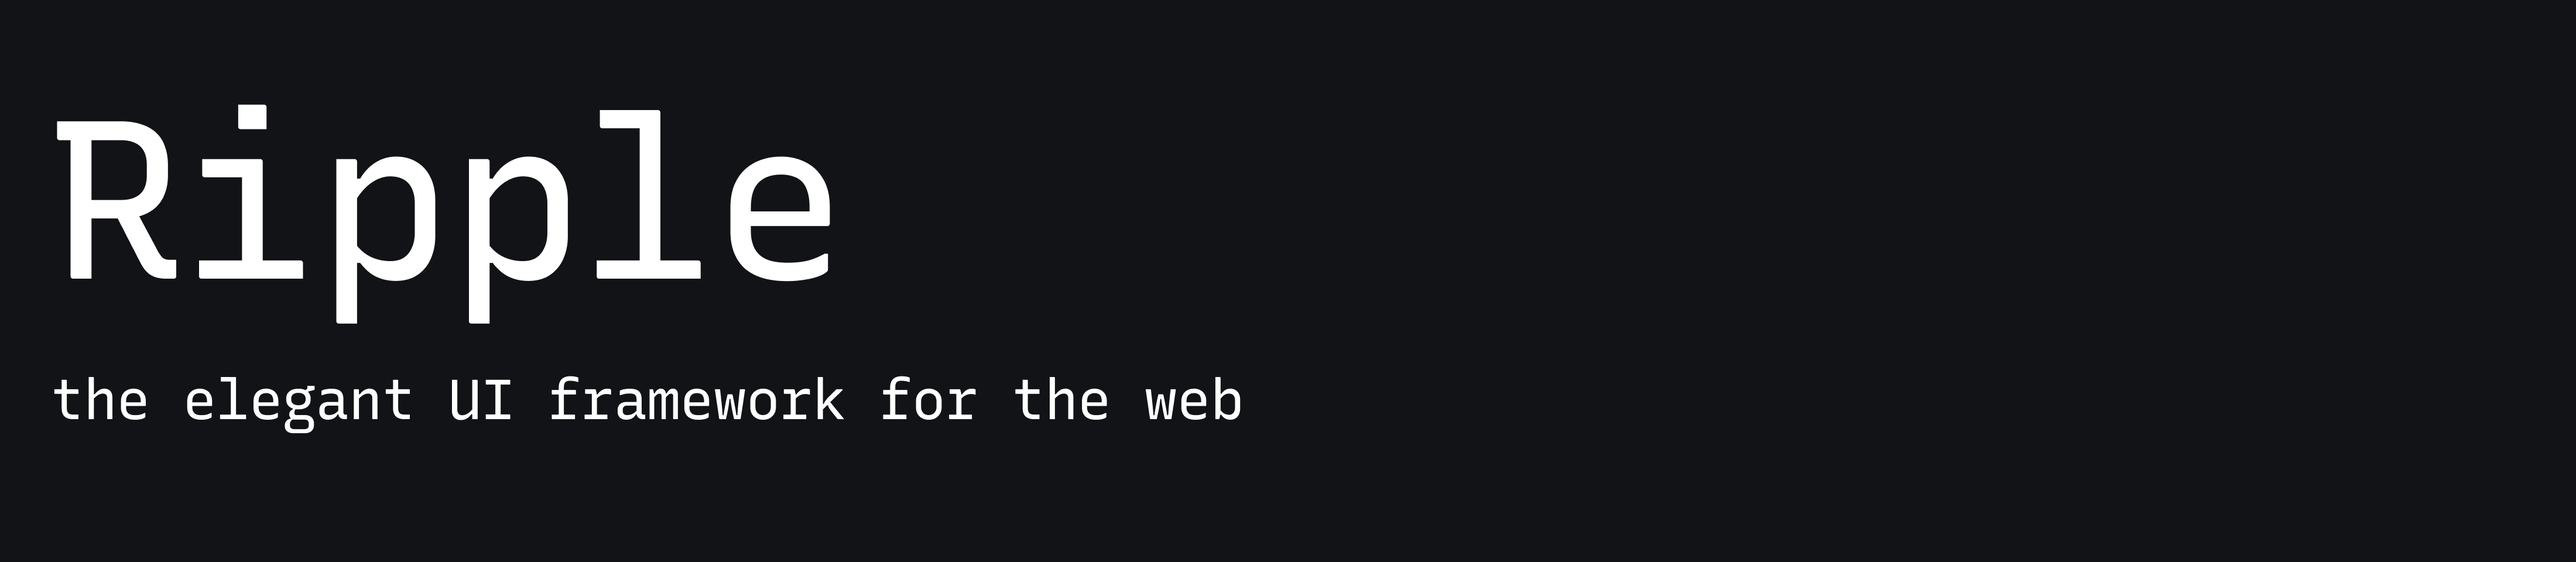
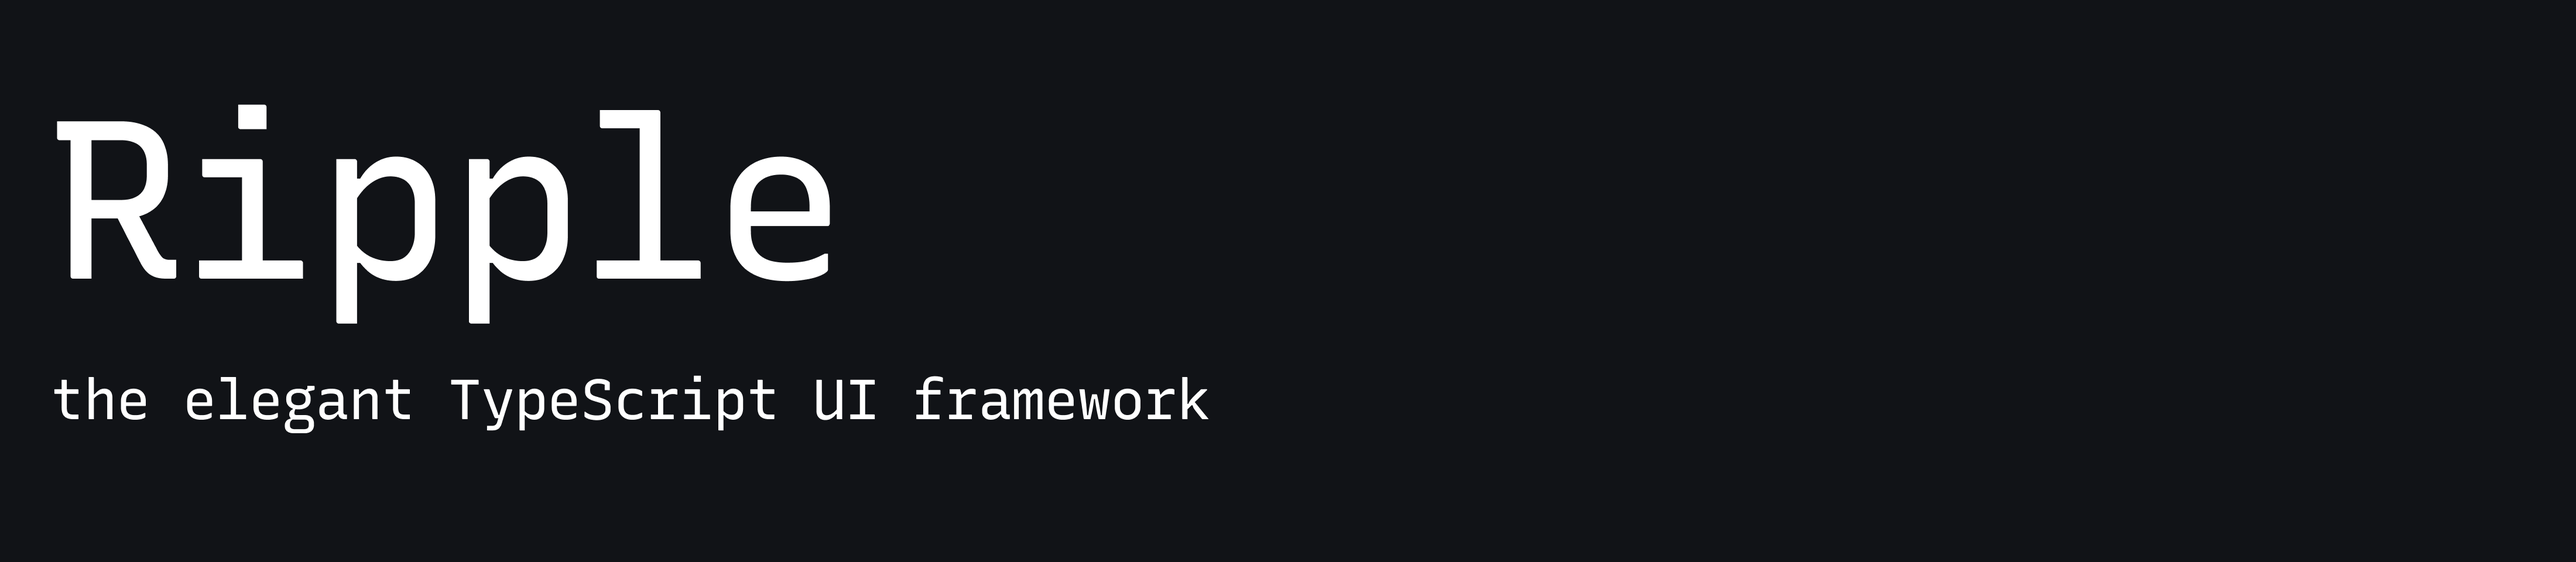
improvements

Changed region(s): [[0.1557, 0.6562, 0.4982, 0.7812]]

diff --git a/README.md b/README.md
@@ -1,7 +1,7 @@
 <a href="https://ripplejs.com">
   <picture>
     <source media="(prefers-color-scheme: dark)" srcset="assets/ripple-dark.png">
-    <img src="assets/ripple-light.png" alt="Ripple - the elegant UI framework for the web" />
+    <img src="assets/ripple-light.png" alt="Ripple - the elegant TypeScript UI framework" />
   </picture>
 </a>
 
@@ -13,7 +13,7 @@
 
 > Currently, this project is still in early development, and should not be used in production.
 
-Ripple is a TypeScript UI framework for the web.
+Ripple is a TypeScript UI framework that takes the best parts of React, Solid and Svelte and combined them into one package.
 
 I wrote Ripple as a love letter for frontend web – and this is largely a project that I built in less than a week, so it's very raw.
 
@@ -34,6 +34,7 @@ If you'd like to know more, join the [Ripple Discord](https://discord.gg/JBF2ySr
 - **JSX-like Syntax**: Familiar templating with Ripple-specific enhancements
 - **TypeScript Support**: Full TypeScript integration with type checking
 - **VSCode Integration**: Rich editor support with diagnostics, syntax highlighting, and IntelliSense
+- **Peformance**: Fine-grain rendering, with industry leading performance and memory usage
 
 ## Missing Features
 
